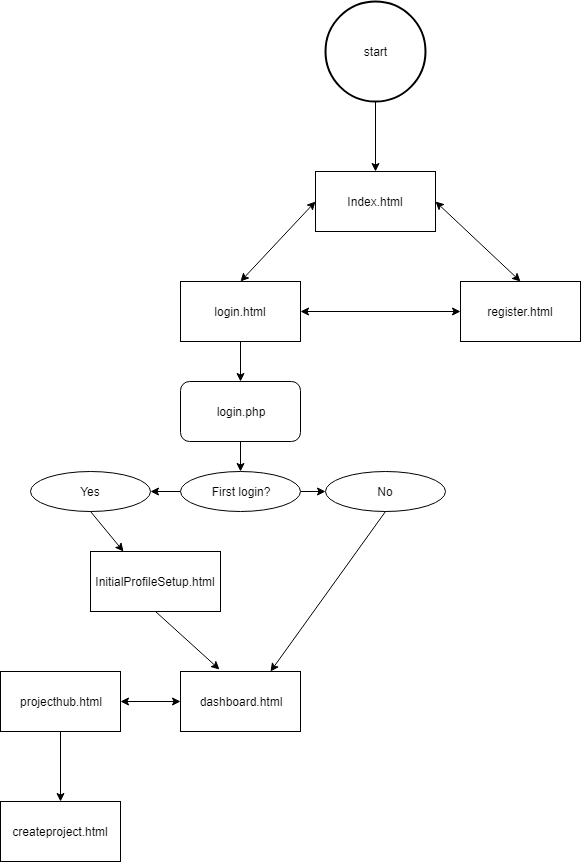
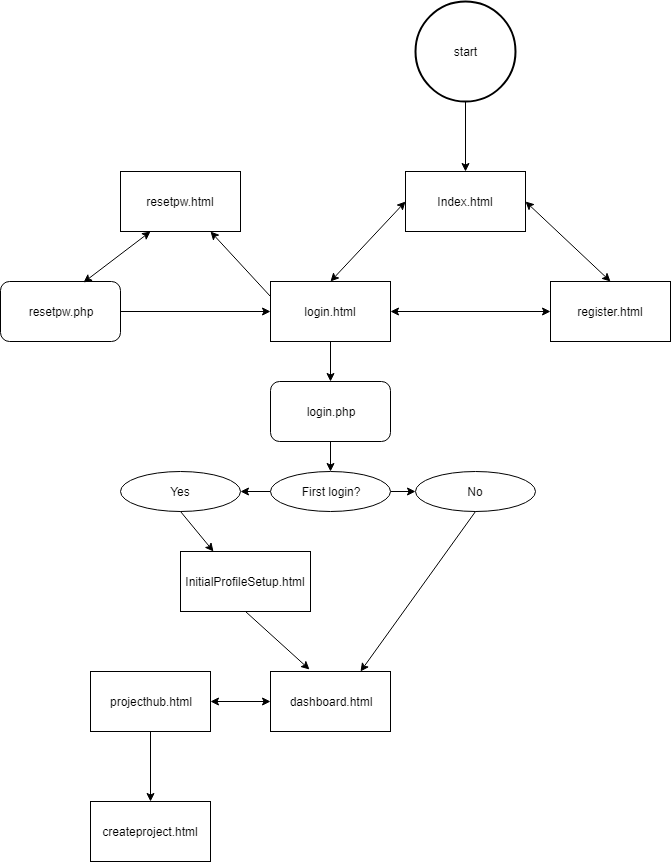
Update flow

diff --git a/public_html/login.html b/public_html/login.html
@@ -33,9 +33,11 @@
                 </div>
                 <button class="btn-primary btn-block rounded btn-lg">Login</button>
             </form>
-            <form action="register.html" class="mt-5">
-                <p class="text-center">Don't have an account?</p>
-                <button class="btn-primary btn-block rounded btn-lg">Create An Account</button>
+            <form action="register.html" class="mt-5 mb-3">
+                <button class="btn-info btn-block rounded btn-lg" id="register_button">Create An Account</button>
+            </form>
+            <form action="resetpw.html">
+                <button class="btn-secondary btn-block rounded btn-lg">Reset Password</button>
             </form>
 
         </div>
